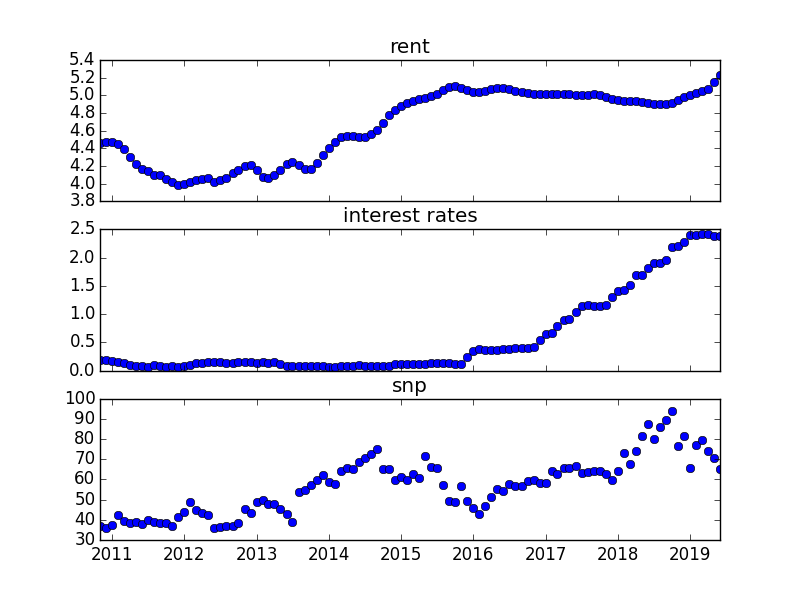
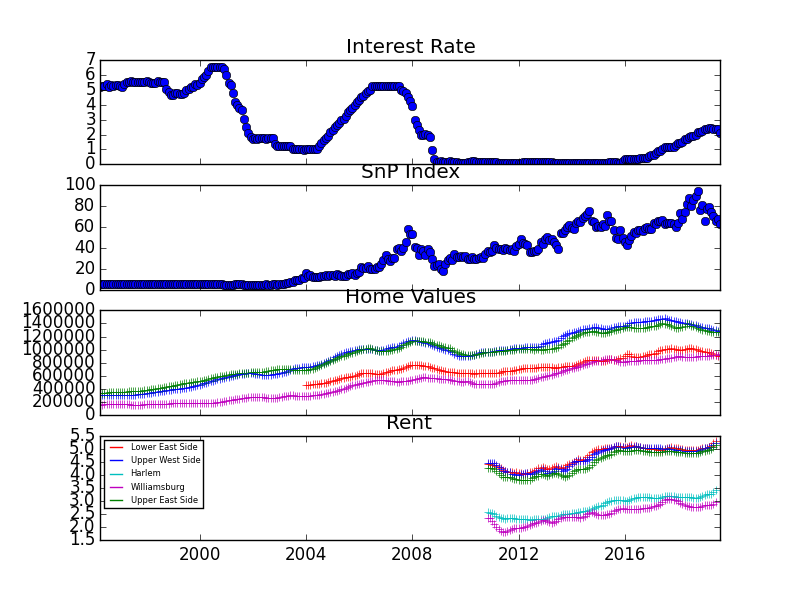
adding home values and rent, for multiple neighborhoods

diff --git a/main.py b/main.py
@@ -2,6 +2,7 @@ from building import Building
 from building import Unit
 import requests 
 import matplotlib.pyplot as plt
+from matplotlib.lines import Line2D
 import pandas as pd
 import datetime
 import json
@@ -10,45 +11,75 @@ ZILLOW_URL = "http://files.zillowstatic.com/research/public/"
 IR_URL = "https://fred.stlouisfed.org/graph/fredgraph.csv?bgcolor=%23e1e9f0&chart_type=line&drp=0&fo=open%20sans&graph_bgcolor=%23ffffff&height=450&mode=fred&recession_bars=on&txtcolor=%23444444&ts=12&tts=12&width=1168&nt=0&thu=0&trc=0&show_legend=yes&show_axis_titles=yes&show_tooltip=yes&id=FEDFUNDS&scale=left&cosd=1954-07-01&coed=2019-09-01&line_color=%234572a7&link_values=false&line_style=solid&mark_type=none&mw=3&lw=2&ost=-99999&oet=99999&mma=0&fml=a&fq=Monthly&fam=avg&fgst=lin&fgsnd=2009-06-01&line_index=1&transformation=lin&vintage_date=2019-10-02&revision_date=2019-10-02&nd=1954-07-01"
 TIINGO_URL = "https://api.tiingo.com/tiingo/daily/SNP/prices"
 TIINGO_API_TOKEN = "bb20f7ef5da6b4b3ac01311be07706721d5b8018"
-# home values
-# http://files.zillowstatic.com/research/public/Neighborhood/Neighborhood_Zhvi_Summary_AllHomes.csv
-# rental values
-# http://files.zillowstatic.com/research/public/Neighborhood/Neighborhood_Zri_AllHomesPlusMultifamily_Summary.csv
-# http://files.zillowstatic.com/research/public/Neighborhood/Neighborhood_Zri_AllHomesPlusMultifamily.csv
-# http://files.zillowstatic.com/research/public/Neighborhood/Neighborhood_ZriPerSqft_AllHomes.csv
-# rental forecast
-# http://files.zillowstatic.com/research/public/ZriForecast_Public.csv
 
-
-# fed fund - https://fred.stlouisfed.org/graph/fredgraph.csv?bgcolor=%23e1e9f0&chart_type=line&drp=0&fo=open%20sans&graph_bgcolor=%23ffffff&height=450&mode=fred&recession_bars=on&txtcolor=%23444444&ts=12&tts=12&width=1168&nt=0&thu=0&trc=0&show_legend=yes&show_axis_titles=yes&show_tooltip=yes&id=FEDFUNDS&scale=left&cosd=1954-07-01&coed=2019-09-01&line_color=%234572a7&link_values=false&line_style=solid&mark_type=none&mw=3&lw=2&ost=-99999&oet=99999&mma=0&fml=a&fq=Monthly&fam=avg&fgst=lin&fgsnd=2009-06-01&line_index=1&transformation=lin&vintage_date=2019-10-02&revision_date=2019-10-02&nd=1954-07-01
-# snp 500 - tiingo - https://api.tiingo.com/tiingo/daily/SNP/prices?startDate=2012-1-1&endDate=2016-1-1
+AREAS = {"Upper West Side":'b', "Upper East Side":'g', "Lower East Side":'r', "Harlem":'c', "Williamsburg":'m'}
+CITY = "New York"
+STATE = "NY"
 delim = "%7C"
-#/for-sale/manhattan/status:open%7Cprice:100000-1000000
 
 def main():
 	# get interest rates and SNP data
 	ratesMap = getInterestRates()
 	snpData = getSnp()
 
-	# get rent chart
-	csv = getZillowCSV("Neighborhood", "Neighborhood_ZriPerSqft_AllHomes.csv")
-	rows = csv.split("\n")
-	headers = rows[0].strip().replace('"', '').split(",")
-	f, (ax1, ax2, ax3) = plt.subplots(3, sharex=True, sharey=False)
-	ax1.set_xlim([convertToDateYYmm(headers[7]), convertToDateYYmm(headers[len(headers) - 1])])
+	# get home value chart
+	homeValuesCsv = getZillowCSV("Neighborhood", "Neighborhood_Zhvi_AllHomes.csv")
+	homeValuesRows = homeValuesCsv.split("\n")
+	headers = homeValuesRows[0].strip().replace('"', '').split(",")
 
-	ax1.set_title('rent')
-	ax2.set_title('interest rates')
-	ax3.set_title('snp')
-
-	for row in rows:
+	homeValues = {} # {(neighborhood, city, state) : {year : price}}
+	for row in homeValuesRows[1:]:
 		arr = row.replace('"', '').split(",")
-		if len(arr) > 1 and "New York" == arr[2]:
+		if len(arr) > 2 and arr[1] in AREAS:
+			homeValues[(arr[1], arr[2], arr[3])] = {}
 			for i in range(7, len(headers)):
-				ax1.plot_date(convertToDateYYmm(headers[i]),arr[i], 'bo')
-				ax2.plot_date(convertToDateYYmm(headers[i]),ratesMap[convertToDateYYmm(headers[i])], 'bo')
-				ax3.plot_date(convertToDateYYmm(headers[i]),snpData[findSmallestDate(convertToDateYYmm(headers[i]),snpData)], 'bo')
-			break
+				date = convertToDateYYmm(headers[i])
+				homeValues[(arr[1], arr[2], arr[3])][date] = arr[i]
+
+	# get rent chart
+	rentValuesCSV = getZillowCSV("Neighborhood", "Neighborhood_ZriPerSqft_AllHomes.csv")
+	rentValuesRows = rentValuesCSV.split("\n")
+	rentHeaders = rentValuesRows[0].strip().replace('"', '').split(",")
+
+	rentValues = {}
+	for row in rentValuesRows[1:]:
+		arr = row.replace('"', '').split(",")
+		if len(arr) > 2 and arr[1] in AREAS:
+			rentValues[(arr[1], arr[2], arr[3])] = {}
+			for i in range(7, len(rentHeaders)):
+				date = convertToDateYYmm(rentHeaders[i])
+				rentValues[(arr[1], arr[2], arr[3])][date] = arr[i]
+
+	f, axes = plt.subplots(4, sharex=True, sharey=False)
+	axes[0].set_xlim([convertToDateYYmm(headers[7]), convertToDateYYmm(headers[len(headers) - 1])])
+
+	axes[0].set_title('Interest Rate')
+	axes[1].set_title('SnP Index')
+	axes[2].set_title('Home Values')
+	axes[3].set_title('Rent')
+
+	# set legend
+	custom_lines = []
+	for i in AREAS.keys():
+		custom_lines.append(Line2D([0], [0], color=AREAS[i]))
+	axes[3].legend(custom_lines, AREAS.keys(), loc='upper left', prop={'size': 6})
+
+	for header in headers[7:]:
+		date = convertToDateYYmm(header)
+		axes[0].plot_date(date,ratesMap[date], 'bo')
+		axes[1].plot_date(date,snpData[findSmallestDate(date,snpData)], 'bo')
+		for area in AREAS.keys():
+			if (area, CITY, STATE) in homeValues:
+				try:
+					axes[2].plot_date(date,homeValues[(area, CITY, STATE)][date], AREAS[area] + "+")
+				except:
+					pass
+			if (area, CITY, STATE) in rentValues:
+				try:
+					axes[3].plot_date(date,rentValues[(area, CITY, STATE)][date], AREAS[area] + "+")
+				except:
+					pass
+
 	plt.savefig('chart.png')
 
 def getInterestRates():
@@ -67,7 +98,7 @@ def getSnp():
         'Authorization' : 'Token ' + TIINGO_API_TOKEN
         }
 	today = datetime.datetime.today().strftime('%Y-%m-%d')
-	snpText = get(TIINGO_URL + "?startDate=2010-1-1&endDate=" + today, headers=headers)
+	snpText = get(TIINGO_URL + "?startDate=1990-1-1&endDate=" + today, headers=headers)
 	snpHistorical = json.loads(snpText)
 	snpData = {}
 	for snp in snpHistorical:
